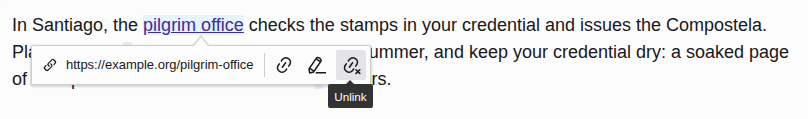
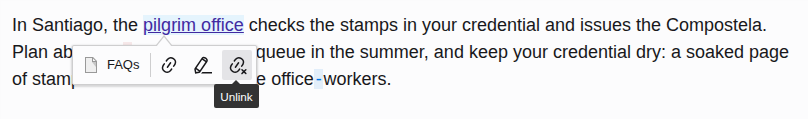
[TASK] Explain the link popover of the rich text editor (#417)
* [TASK] Explain the link popover of the rich text editor

Since TYPO3 15.0, the popover of a link in the rich text editor shows
the icon and title of a page or file, offers a button to open the link,
and a link inserted without selected text takes the title of its target
as link text. The chapter showed the popover of an external link only
for removing a link, and did not say how to open one.

The screenshot entry turns the link into a link to a page in the editor
only, so the stored text and the other screenshots stay as they are.

Resolves: https://github.com/TYPO3-Documentation/Changelog-To-Doc/issues/1883
Releases: main
Assisted-by: Claude Opus 5.5 <noreply@anthropic.com>

* Remove duplicate link instructions in documentation

Removed duplicate instructions for linking text in the editor.

---------

Changed region(s): [[0.0309, 0.3782, 0.4641, 0.9076], [0.1856, 0.3025, 0.2166, 0.4034], [0.2475, 0.3782, 0.2785, 0.4034]]

diff --git a/Documentation/ContentElements/RichTextEditor/Index.rst b/Documentation/ContentElements/RichTextEditor/Index.rst
@@ -44,6 +44,14 @@ Click the :guilabel:`Link` icon in the toolbar or use the shortcut
 your focus is within the editor. Outside the editor the same
 shortcut would open the live search.
 
+..  versionadded:: 15.0
+    :changelog: feature-99678-1790186405
+
+If you insert a link without selecting text first, TYPO3 uses the title of
+the link as link text. If the link has no title, TYPO3 uses the title of the
+link target, for example the title of the page. The new link stays selected,
+so you can change it right away.
+
 ..  figure:: /Images/GeneratedScreenshots/ContentElements/Text/Link.png
     :alt: Linking the highlighted text in the TYPO3 rich text editor
     :zoom: gallery
@@ -94,6 +102,25 @@ External links
 #.  Click the :guilabel:`Set Link` button to close the :guilabel:`Link Browser`
     window.
 
+..  _rte-linking-preview:
+
+Checking and opening a link
+===========================
+
+..  versionadded:: 15.0
+    :changelog: feature-99678-1790186405
+
+When you put your cursor into a link, a popover shows where the link goes.
+For a page or a file, it shows the icon and the title of the target. Hover
+over the title to see the path of the page or file. For an external link, the
+popover shows the address.
+
+To open the link in a new browser tab, click the
+:guilabel:`Open link in new tab` button in the popover. You can also click
+the link while you hold :kbd:`Ctrl`, or :kbd:`Cmd` on a Mac, or press
+:kbd:`Alt` + :kbd:`Enter` while your cursor is in the link. A link to a page
+opens the page in the frontend, and a link to a file opens the file.
+
 ..  _rte-linking-remove:
 
 Removing a link
@@ -103,7 +130,8 @@ To remove a link from text, put your cursor anywhere in the linked text then
 click the :guilabel:`Unlink` button in the popover:
 
 ..  figure:: /Images/GeneratedScreenshots/ContentElements/Text/Unlink.png
-    :alt: Unlinking using the popover in the rich text editor
+    :alt: The popover of a link to the page "FAQs" in the rich text editor,
+        with the buttons to open, edit, and remove the link
     :zoom: gallery
 
 ..  _rte-whitespace:
